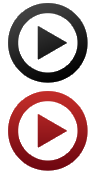
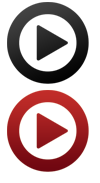
Nice new hover button.
git-svn-id: https://plugins.svn.wordpress.org/marctv-jquery-video-embed/trunk@583971 b8457f37-d9ea-0310-8a92-e5e31aec5664

diff --git a/jquery.marctv-video.js b/jquery.marctv-video.js
@@ -64,7 +64,7 @@
       
       vidobj = $('<iframe src="' + iframeurl + mediaID + '?autoplay=1&rel=0' + showinfo + offset + hd + '" frameborder="0" scrolling="no" webkitAllowFullScreen mozallowfullscreen allowFullScreen></iframe>');
       
-      vidimg = $('<div class="crop"><span class="layer"> </span><span class="sprite playicon"> </span><span class="videotype">' + label + '</span><div class="img"></div>');
+      vidimg = $('<div class="crop"><span class="layer"> </span><span class="playicon_area"></span> <span class="sprite playicon_hover"> </span> <span class="sprite playicon"> </span><span class="videotype">' + label + '</span><div class="img"></div>');
       
       
 
@@ -74,7 +74,7 @@
       var caption_markup = $(options.description_html).html('<a href="' + this.attr('href') + '">' + title + '</a>');
       
       this.wrap('<div class="jqvideo" />').after(caption_markup).after(vidimg).hide();
-          
+   
       var jqplayer = $(this).parent('.jqvideo');
       
       if(options.mediatypes[mediatype].thumb_asy){
@@ -109,32 +109,32 @@
           "height": img_height
         });
        
-        var title = $("a.embedvideo",jqplayer).html();       
+        var title = $("a.embedvideo",jqplayer).html();    
+        
         trackVideo(mediaID,mediatype,title);
       });
-        
+       
       $(".crop",jqplayer).hover(
         function () {
-          $(".layer",this).fadeTo(100, 0);
+          $(".layer",this).fadeTo("fast", 0.1);
         }, 
         function () {
-          $(".layer",this).fadeTo(100, 0.1);
+          $(".layer",this).fadeTo("fast", 0.2);
         }
         );
           
-      $(".playicon",jqplayer).hover(
-        function () {
-          $(this).css({
-            backgroundPosition: '0 -88px'
-          });
-        }, 
-        function () {
-          $(this).css({
-            backgroundPosition: '0 0'
-          });
-        }
-        );
+               
           
+      $(".playicon_area",jqplayer).hover(
+          function () {
+            $(".playicon_hover",jqplayer).fadeOut("fast");
+             $(".layer",jqplayer).fadeTo("fast", 0);
+          }, 
+          function () {
+             $(".playicon_hover",jqplayer).fadeIn("fast");
+              $(".layer",jqplayer).fadeTo("fast", 0.1);
+          }
+        );  
     };
 
     $.fn.setSize = function (){
@@ -160,9 +160,20 @@
         
         var playbt_left   = (img_width/2)-($(".playicon",this).width()/2);
         var playbt_top    = (img_height_wide/2)-($(".playicon",this).height()/2);
+
         
 
         $(".playicon",this).css({
+          'left': playbt_left, 
+          'top' : playbt_top
+        });
+        
+        $(".playicon_hover",this).css({
+          'left': playbt_left, 
+          'top' : playbt_top
+        });
+        
+        $(".playicon_area",this).css({
           'left': playbt_left, 
           'top' : playbt_top
         });
@@ -181,7 +192,7 @@
           'width': img_width ,
           'height' : img_height_wide, 
           'background': '#000'
-        }).fadeTo(0,0.1);
+        }).fadeTo("fast",0.2);
       
         $("iframe",this).css({
           'width': img_width ,

diff --git a/jquery.marctv-video.css b/jquery.marctv-video.css
@@ -19,20 +19,38 @@
   position: absolute;
 }
 
-.jqvideo .playicon {
+.jqvideo .playicon,
+.jqvideo .playicon_hover,
+.jqvideo .playicon_area{
   opacity: 1;
-  transition: none;
-  -moz-transition: none;
-  -webkit-transition: none;
-  background-position: 0 0;
   height: 85px;
   position: absolute;
   width: 100px;
 }
+
+.jqvideo .playicon_hover{
+   background-position: 0 0; 
+}
+
+.jqvideo .playicon{
+   background-position: 0 -88px; 
+}
+
+.jqvideo .playicon_area{
+  z-index: 1000;
+}
+
+.jqvideo .playicon_hover{
+  z-index: 999;
+}
+
+.jqvideo .playicon{
+  z-index: 998;
+}
+
 .jqvideo .crop{
   cursor: pointer;
 } 
-
 
 .jqvideo .videotype {
   position: absolute;
